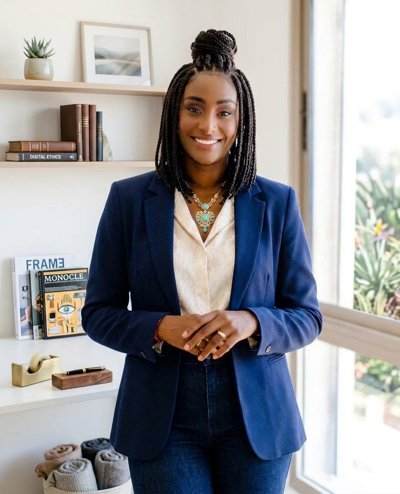
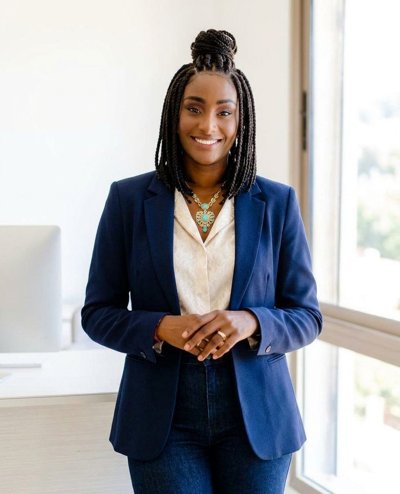
Page etudes de cas style Statiq + Saelia

diff --git a/public/etude-de-cas.html b/public/etude-de-cas.html
@@ -6,7 +6,7 @@
 <title>Étude de cas — AdStack</title>
 <meta name="description" content="Comment une marque e-commerce a trouvé ses créatives gagnantes avec AdStack.">
 <link rel="icon" href="/favicon.ico">
-<link href="https://fonts.googleapis.com/css2?family=Inter:wght@400;500;600;700;800&display=swap" rel="stylesheet">
+<link href="https://fonts.googleapis.com/css2?family=Inter:wght@400;500;600;700;800&family=Caveat:wght@700&display=swap" rel="stylesheet">
 <script>
 !function(f,b,e,v,n,t,s){if(f.fbq)return;n=f.fbq=function(){n.callMethod?n.callMethod.apply(n,arguments):n.queue.push(arguments)};if(!f._fbq)f._fbq=n;n.push=n;n.loaded=!0;n.version='2.0';n.queue=[];t=b.createElement(e);t.async=!0;t.src=v;s=b.getElementsByTagName(e)[0];s.parentNode.insertBefore(t,s)}(window,document,'script','https://connect.facebook.net/en_US/fbevents.js');
 fbq('init','1425042735803143');fbq('track','PageView');
@@ -196,6 +196,7 @@ h2{font-weight:900;letter-spacing:-1.1px;line-height:1.12;font-size:clamp(28px,4
 .cta .wrap{max-width:760px;background:linear-gradient(135deg,#0B5CFF 0%,#16337A 100%);border-radius:28px;padding:48px 28px}
 .cta p{color:#D5E4FF}
 .cta .btn{background:#fff;color:#0A0A0E;box-shadow:none}
+.cta .btn.ghost{background:transparent;color:#fff;border:1.5px solid rgba(255,255,255,.55)}
 @media(max-width:760px){section.s{padding:44px 0}.cta .wrap{margin:0 16px;padding:36px 20px;max-width:none}}
 </style>
 <style id="edc-multi">
@@ -204,15 +205,27 @@ h2{font-weight:900;letter-spacing:-1.1px;line-height:1.12;font-size:clamp(28px,4
 .prods figure{margin:0;width:150px;text-align:center}
 .prods img{width:100%;height:150px;object-fit:contain;background:#fff;border-radius:18px;padding:10px;display:block}
 .prods figcaption{margin-top:8px;font-size:12.5px;color:var(--mut);line-height:1.35}
-.idx{display:grid;grid-template-columns:repeat(2,1fr);gap:18px;margin-top:38px;text-align:left}
-.idx-c{position:relative;display:flex;flex-direction:column;gap:10px;padding:30px 28px 26px;border-radius:24px;background:#121722;border:1px solid rgba(255,255,255,.08);text-decoration:none;color:#fff;overflow:hidden;transition:transform .15s,border-color .15s}
-.idx-c:hover{transform:translateY(-3px);border-color:rgba(31,182,255,.5)}
-.idx-c img{height:120px;width:auto;max-width:60%;object-fit:contain;background:#fff;border-radius:14px;padding:6px;align-self:flex-start}
-.idx-b{align-self:flex-start;background:#FFC53D;color:#111;font-weight:800;font-size:13.5px;padding:7px 12px;border-radius:9px}
-.idx-c h2{margin:4px 0 0;font-size:28px;text-align:left}
-.idx-c p{margin:0;color:var(--mut);font-size:15.5px}
-.idx-l{margin-top:auto;padding-top:10px;font-weight:700;color:#1FB6FF;font-size:14.5px}
-@media(max-width:760px){.idx{grid-template-columns:1fr}}
+.idx{display:grid;grid-template-columns:repeat(auto-fit,minmax(300px,360px));justify-content:center;gap:18px;margin:46px auto 0;max-width:1120px;text-align:left}
+.idx-c{display:flex;flex-direction:column;gap:10px;padding:8px 8px 24px;border-radius:24px;background:#121722;border:1px solid rgba(255,255,255,.07);text-decoration:none;color:#fff;transition:transform .15s,border-color .15s}
+.idx-c:hover{transform:translateY(-4px);border-color:rgba(31,182,255,.5)}
+.idx-v{position:relative;height:300px;border-radius:18px;overflow:hidden;display:flex;align-items:center;justify-content:center;margin-bottom:12px}
+.idx-v img{position:absolute;height:78%;width:auto;max-width:46%;object-fit:cover;border-radius:12px;box-shadow:0 14px 34px rgba(0,0,0,.28);background:#fff}
+.idx-v img:nth-child(1){left:12%;transform:rotate(-5deg)}
+.idx-v img:nth-child(2){right:12%;transform:rotate(4deg);top:16%}
+.idx-v img:only-child{left:50%;transform:translateX(-50%) rotate(-2deg)}
+.idx-c h2{margin:0;padding:0 18px;font-size:clamp(21px,2vw,25px);line-height:1.18;letter-spacing:-.5px;text-align:left}
+.idx-c p{margin:0;padding:0 18px;color:#8E929B;font-size:15px;line-height:1.45}
+.idx-l{margin-top:auto;padding:12px 18px 0;font-weight:800;font-size:14.5px;display:inline-flex;gap:8px;align-items:center}
+.idx-hero{position:relative;display:block;max-width:900px;margin:0 auto}.idx-hero h1{font-size:clamp(44px,8.5vw,96px);letter-spacing:-3px;line-height:1}
+.idx-hand{font-family:'Caveat',cursive;font-size:clamp(22px,3vw,30px);color:#FFC53D;font-weight:700;margin-bottom:6px}
+.stk{position:absolute;font-weight:800;font-size:clamp(13px,1.6vw,18px);line-height:1.1;padding:9px 13px;border-radius:9px;text-align:center;box-shadow:0 6px 18px rgba(0,0,0,.3)}
+.stk.a{left:-5%;top:0;background:#1FB6FF;color:#fff;transform:rotate(-14deg)}
+.stk.b{right:-4%;bottom:-26%;background:#A78BFA;color:#0A0A0E;transform:rotate(-9deg)}
+.idx-cta{max-width:1120px;margin:90px auto 0;border-radius:28px;padding:56px 40px;background:linear-gradient(135deg,#0B5CFF 0%,#16337A 100%);text-align:center;position:relative;overflow:hidden}
+.idx-cta h2{margin:0 0 12px;font-size:clamp(28px,4.4vw,46px)}
+.idx-cta p{margin:0 0 26px;color:#D5E4FF}
+@media(max-width:1000px){.idx{grid-template-columns:repeat(2,1fr)}.stk{display:none}}
+@media(max-width:640px){.idx{grid-template-columns:1fr}.idx-v{height:280px}.idx-cta{padding:40px 20px;margin:60px 16px 0}}
 </style>
 </head>
 <body>
@@ -351,7 +364,7 @@ var slug=(m&&m[1].replace(/\.html$/,''))||(q&&q[1])||'';
 var apercu=/apercu=1/.test(location.search);
 if(!slug){ // page index : toutes les études de cas actives
   var list=Object.keys(REG).map(function(k){return REG[k]}).filter(function(c){return c&&c.marque&&(c.actif||apercu)});
-  var ix='<section class="s hero"><div class="wrap rv"><div class="eyebrow">Nos résultats</div><h1>Études de cas</h1><div class="meta">Des marques réelles, des résultats que nous pouvons montrer.</div><div class="idx">'+list.map(function(c){return '<a class="idx-c" href="/etude-de-cas/'+esc(c.slug)+(apercu?'?apercu=1':'')+'">'+((c.teaserImages&&c.teaserImages[0])?'<img src="'+esc(c.teaserImages[0])+'" alt="" loading="lazy">':'')+(c.badge?'<span class="idx-b">'+esc(c.badge)+'</span>':'')+'<h2>'+esc(c.marque)+'</h2><p>'+esc(c.accroche||'')+'</p><span class="idx-l">Voir l’étude de cas →</span></a>'}).join('')+'</div></div></section>';
+  var ix='<section class="s hero"><div class="wrap rv"><div class="idx-hand">Un aperçu de notre travail</div><div class="idx-hero"><span class="stk a">Orientées performance</span><h1>Études de cas</h1><span class="stk b">Ce qu’on fait pour nos marques</span></div><div class="meta" style="max-width:620px;margin:40px auto 0;font-size:16px">Des marques réelles qui jugent leurs créatives sur la performance, pas sur le portfolio.</div><div class="idx">'+list.map(function(c){var im=(c.teaserImages&&c.teaserImages.length?c.teaserImages:(c.galerie||[])).slice(0,2);return '<a class="idx-c" href="/etude-de-cas/'+esc(c.slug)+(apercu?'?apercu=1':'')+'"><div class="idx-v" style="background:'+esc(c.carteBg||'#1c2333')+'" aria-hidden="true">'+im.map(function(u){return '<img src="'+esc(u)+'" alt="" loading="lazy">'}).join('')+'</div><h2>'+esc(c.carteTitre||c.marque)+'</h2><p>'+esc(c.carteLigne||c.accroche||'')+'</p><span class="idx-l">Lire l’étude de cas <span aria-hidden="true">→</span></span></a>'}).join('')+'</div></div></section><section class="s" style="padding-top:0"><div class="idx-cta rv"><h2>Vous voulez des résultats comme ceux-ci ?</h2><p>Choisissez votre offre, ou faites le quiz pour trouver celle qui vous correspond.</p><div class="row" style="display:flex;gap:12px;justify-content:center;flex-wrap:wrap"><a class="btn" style="background:#fff;color:#0A0A0E;box-shadow:none" href="/vente#nos-offres">Voir les offres</a><a class="btn ghost" style="color:#fff;border:1.5px solid rgba(255,255,255,.55)" href="/quiz">Faire le quiz</a></div></div></section>';
   document.getElementById('page').innerHTML=ix;document.getElementById('sticky').style.display='none';
   document.querySelectorAll('.rv').forEach(function(el){el.classList.add('in')});document.title='Études de cas — AdStack';return;
 }
@@ -389,7 +402,7 @@ if(has(D.resultats)||has(D.gagnantes)){h+='<section class="s"><div class="wrap r
 // 7. Galerie
 if(has(D.galerie)){h+='<section class="s"><div class="wrap rv"><div class="eyebrow">Les créatives</div><h2>Réalisées pour '+esc(D.marque)+'</h2><div class="gal">'+D.galerie.map(function(g){return '<img src="'+esc(g)+'" alt="Créative '+esc(D.marque)+'" loading="lazy">'}).join('')+'</div></div></section>'}
 // 8. CTA
-h+='<section class="cta"><div class="wrap rv"><h2>Vous voulez des résultats comme ceux-ci ?</h2><p>Choisissez votre offre et recevez vos premières créatives dans AdBoard.</p><div class="row"><a class="btn" href="/vente#nos-offres" data-cta="fin">Voir les offres</a><a class="btn ghost" href="/vente#etudes-de-cas">Retour</a></div></div></section>';
+h+='<section class="cta"><div class="wrap rv"><h2>Vous voulez des résultats comme ceux-ci ?</h2><p>Choisissez votre offre et recevez vos premières créatives dans AdBoard.</p><div class="row"><a class="btn" href="/vente#nos-offres" data-cta="fin">Voir les offres</a><a class="btn ghost" href="/etude-de-cas">Voir les études de cas</a></div></div></section>';
 document.getElementById('page').innerHTML=h;
 // comportements
 var io='IntersectionObserver' in window?new IntersectionObserver(function(es){es.forEach(function(e){if(e.isIntersecting){e.target.classList.add('in');io.unobserve(e.target)}})},{threshold:.08}):null;

diff --git a/public/vente.html b/public/vente.html
@@ -1362,6 +1362,7 @@ img.exv-lb-media{max-width:94vw}
 <section class="edc-section" id="etudes-de-cas" hidden>
   <div class="edc-head"><div class="edc-eyebrow">Un aperçu de nos résultats</div><h2 class="edc-h">Études de cas</h2></div>
   <div class="edc-grid" id="edc-grid"></div>
+  <div class="edc-more"><a href="/etude-de-cas" id="edc-all">Voir les études de cas <svg width="14" height="14" viewBox="0 0 24 24" fill="none" stroke="currentColor" stroke-width="2.6" stroke-linecap="round" stroke-linejoin="round"><path d="M5 12h14M13 6l6 6-6 6"/></svg></a></div>
 </section>
 <script src="/etude-de-cas-data.js"></script>
 <script src="/etude-de-cas-saelia-data.js"></script>
@@ -1371,7 +1372,7 @@ img.exv-lb-media{max-width:94vw}
   var list=Object.keys(REG).map(function(k){return REG[k]}).filter(function(D){return D&&D.accroche&&(D.actif||apercu)});
   var sec=document.getElementById('etudes-de-cas'), g=document.getElementById('edc-grid'); if(!sec||!g||!list.length) return;
   function esc(s){return String(s==null?'':s).replace(/[&<>"]/g,function(c){return{'&':'&amp;','<':'&lt;','>':'&gt;','"':'&quot;'}[c]})}
-  g.className='edc-grid'+(list.length===1?' edc-one':'');
+  
   g.innerHTML=list.map(function(D){
     var imgs=(D.teaserImages&&D.teaserImages.length?D.teaserImages:(D.galerie||[])).slice(0,2); if(!imgs.length&&D.image) imgs=[D.image];
     return '<article class="edc-card"><div class="edc-txt">'+(D.badge?'<div class="edc-badge">'+esc(D.badge)+'</div>':'')+
@@ -1383,15 +1384,12 @@ img.exv-lb-media{max-width:94vw}
 }catch(e){}})();
 </script>
 <style>
-.edc-grid{max-width:1060px;margin:0 auto;display:grid;grid-template-columns:repeat(2,1fr);gap:18px}
-.edc-grid .edc-card{max-width:none;margin:0;grid-template-columns:1fr;gap:0;min-height:0;align-items:stretch}
-.edc-grid .edc-txt{padding:32px 28px 8px}
-.edc-grid .edc-badge{position:static;transform:rotate(-3deg);display:inline-block;margin:0 0 14px}
-.edc-grid .edc-vis{min-height:230px}
-.edc-grid .edc-vis img{width:44%;max-width:170px;background:#fff}
-.edc-grid.edc-one{grid-template-columns:1fr;max-width:960px}
-.edc-grid.edc-one .edc-card{grid-template-columns:1.1fr 1fr;min-height:300px}
-@media(max-width:860px){.edc-grid{grid-template-columns:1fr}.edc-grid.edc-one .edc-card{grid-template-columns:1fr}}
+.edc-grid{max-width:1000px;margin:0 auto;display:flex;flex-direction:column;gap:18px}
+.edc-grid .edc-card{max-width:none;margin:0}
+.edc-grid .edc-vis img{background:#fff}
+.edc-more{display:flex;justify-content:center;margin-top:26px}
+.edc-more a{display:inline-flex;align-items:center;gap:8px;min-height:48px;padding:0 26px;border-radius:999px;border:1.5px solid rgba(255,255,255,.22);color:#fff;font-weight:700;font-size:14.5px;text-decoration:none;transition:border-color .15s,background .15s}
+.edc-more a:hover{border-color:#1FB6FF;background:rgba(31,182,255,.1)}
 </style>
 
 <section class="process-section" id="comment">
@@ -1524,6 +1522,7 @@ img.exv-lb-media{max-width:94vw}
 .tm-role{font-size:13px;opacity:.7;margin-top:3px}
 .tm-chip{display:inline-block;margin-top:10px;padding:5px 11px;border-radius:999px;background:rgba(255,255,255,.14);font-size:12.5px;font-weight:700}
 .tm-link{margin-left:auto;font-size:13px;font-weight:700;color:inherit;text-decoration:none;white-space:nowrap;border-bottom:1px solid currentColor;opacity:.9}
+@media(min-width:601px){.tm-card.tm-invite{grid-column:1/-1;min-height:0;flex-direction:row;align-items:center;justify-content:space-between;gap:24px}}
 .tm-big .tm-pb{background:#fff;color:#0B2A66}.tm-big .tm-bar{background:rgba(255,255,255,.25)}.tm-big .tm-bar b{background:#fff}
 .tm-play{display:flex;align-items:center;gap:12px;margin-top:16px}
 .tm-pb{flex:none;width:46px;height:46px;border-radius:50%;border:0;background:#04131F;color:#fff;cursor:pointer;display:grid;place-items:center;font-size:15px;padding:0}

diff --git a/public/temoignages-data.js b/public/temoignages-data.js
@@ -10,9 +10,17 @@ window.TEMOIGNAGES = [
     role: "Fondateur de Vitalina",
     photo: "/assets/vente/aliou-cisse.jpg",
     mesure: "2,7 M → 6,15 M FCFA de CA par mois",
-    audio: "/assets/vente/aliou-cisse-vocal.mp3",
     lien: "/etude-de-cas/vitalina",
     grand: true
+  },
+  {
+    texte: "Je pensais avoir saturé mon marché. Je n’arrivais plus à trouver de nouvelles idées créatives, et mes résultats baissaient de plus en plus : c’était inquiétant. En quelques semaines, AdStack a tout remis en place, avec une excellente diversité créative. Ça a redonné vie à ma marque.",
+    nom: "Anissa Coli",
+    role: "Owner de Saelia",
+    photo: "/assets/vente/anissa-coli.jpg",
+    mesure: "+10K$ d’adspend · ROAS 3,6",
+    lien: "/etude-de-cas/saelia",
+    grand: false
   }
   // MODÈLE à copier, coller après le dernier avis (avec une virgule avant) et remplir :
   /* ,{

diff --git a/public/etude-de-cas-saelia-data.js b/public/etude-de-cas-saelia-data.js
@@ -14,6 +14,9 @@
 
   // Teaser sur la page de vente
   accroche: "Trop de créatives top performer.",
+  carteTitre: "Comment Saelia a dépensé +10K$ sur Meta Ads, en restant rentable",
+  carteLigne: "+8 créatives top performer, ROAS de 3,6.",
+  carteBg: "#F8D6DF",
   badge: "+10K$ d’adspend",
   teaserTexte: "Une boutique cosmétique qui croyait avoir saturé son marché.",
   teaserImages: ["/assets/vente/saelia-anua.jpg", "/assets/vente/saelia-numbuzin.jpg"],

diff --git a/public/etude-de-cas-data.js b/public/etude-de-cas-data.js
@@ -15,6 +15,9 @@ window.ETUDE_DE_CAS = {
 
   // Teaser sur la page de vente
   accroche: "Plusieurs angles et créatives gagnantes en l’espace de quelques semaines.",
+  carteTitre: "Comment Vitalina a presque doublé son chiffre d’affaires mensuel",
+  carteLigne: "ROAS moyen de 4,3 sur nos créatives.",
+  carteBg: "#DDEBD3",
   badge: "x2 sur le chiffre d’affaires mensuel",
   teaserTexte: "Un aperçu des résultats obtenus avec une marque ambitieuse.",
 
